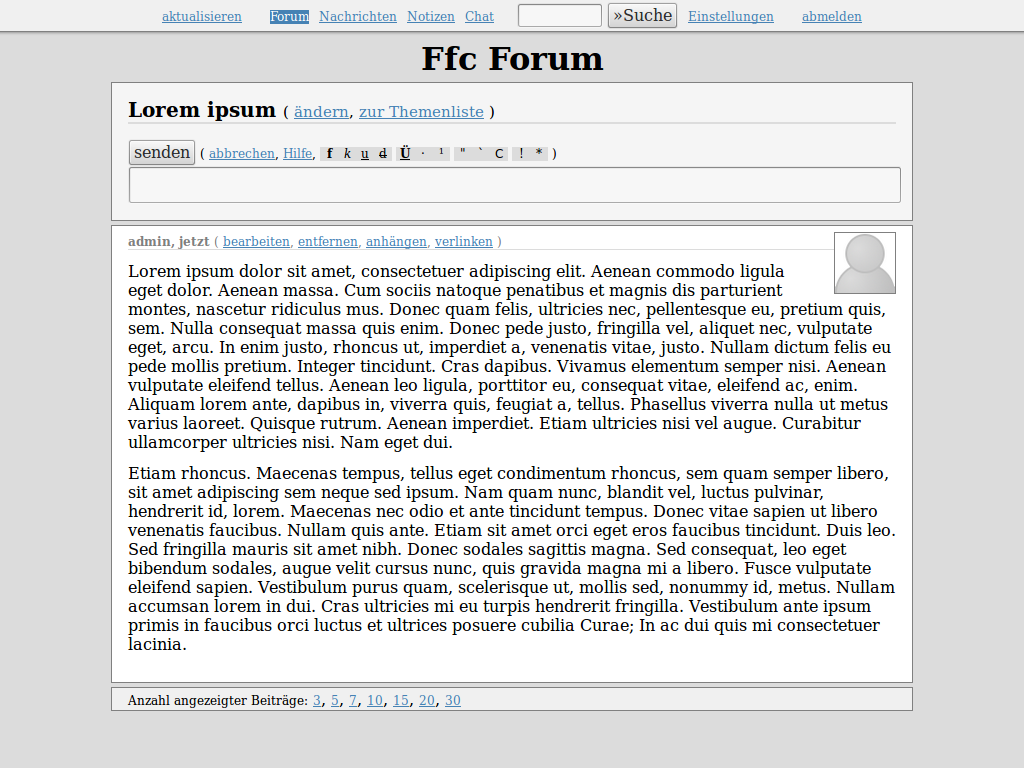
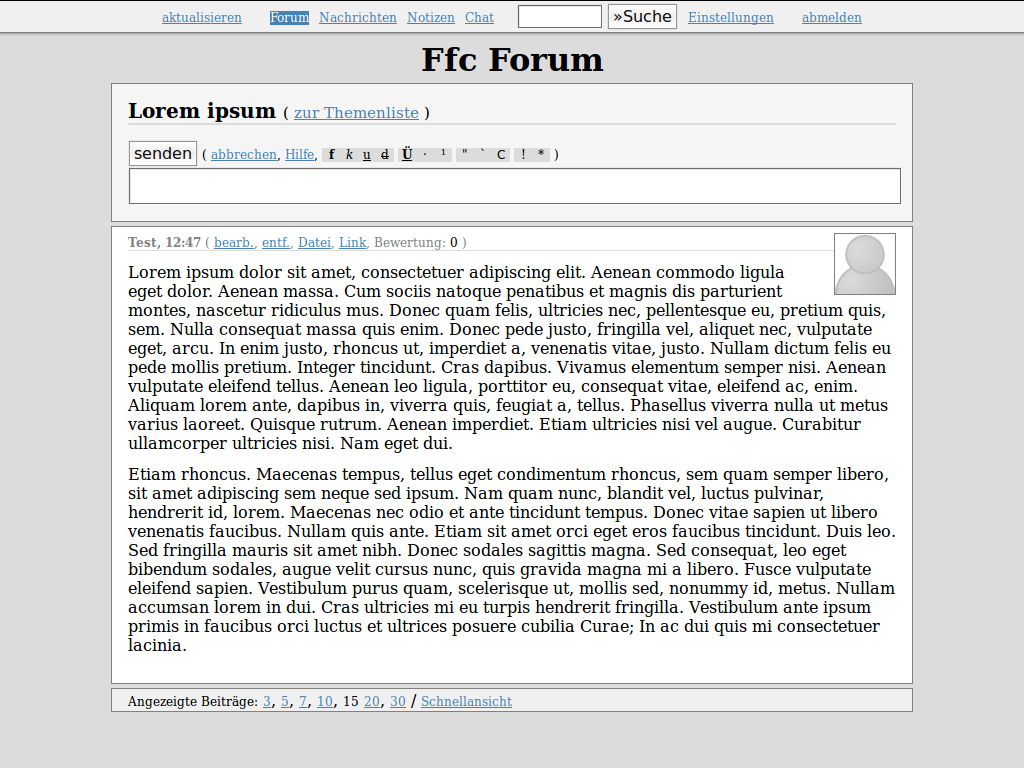
Schnellanzeige (inklusive JSON-Auslieferung) eingebaut

diff --git a/FEATURES.md b/FEATURES.md
@@ -46,6 +46,8 @@ Features
   * Favoritenicon und Webseitentitel
   * Anzahl der Buchstaben die von einer URL oder von einem Thema im Foren-Menü-Popup dargestellt werden (URL-Shortener), die vollständige URL wird über ein Tooltip dargestellt
   * Es kann außerdem eine URL zu einer eigenen CSS-Stylesheet-Datei angegeben werden, welche dann nach allen anderen Stylesheetvorgaben eingebunden wird in die Webseite und über die im Bedarfsfall sämtliche Anzeigeeinstellungen für die Webseite überschrieben oder verändert werden können
+* Es ist über einen Link möglich, eine kurze schnörkellose Auflistung von Themen mit neuen Beiträgen oder Benutzern, von denen neue Privatnachrichten gekommen sind, mit entsprechenden Links dahinter anzeigen zu lassen
+  * Alternativ kann diese Liste (komplett mit alle Benutzern und aktuellen Themen der ersten Seite) auch über JSON geliefert werden
 * Foreneinstellungen, die von Benutzern vorgenommen werden können:
   * Passwortwechsel
   * Email-Adresse angeben (diese kann vom Administrator lediglich ausserhalb des Forums verwendet werden)
